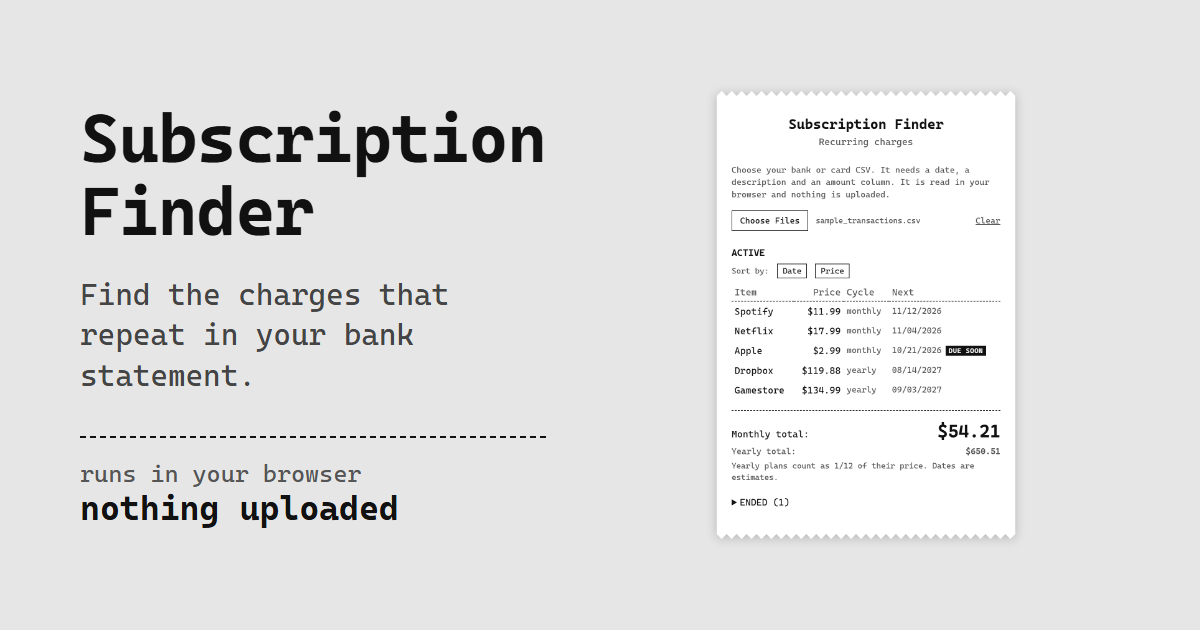
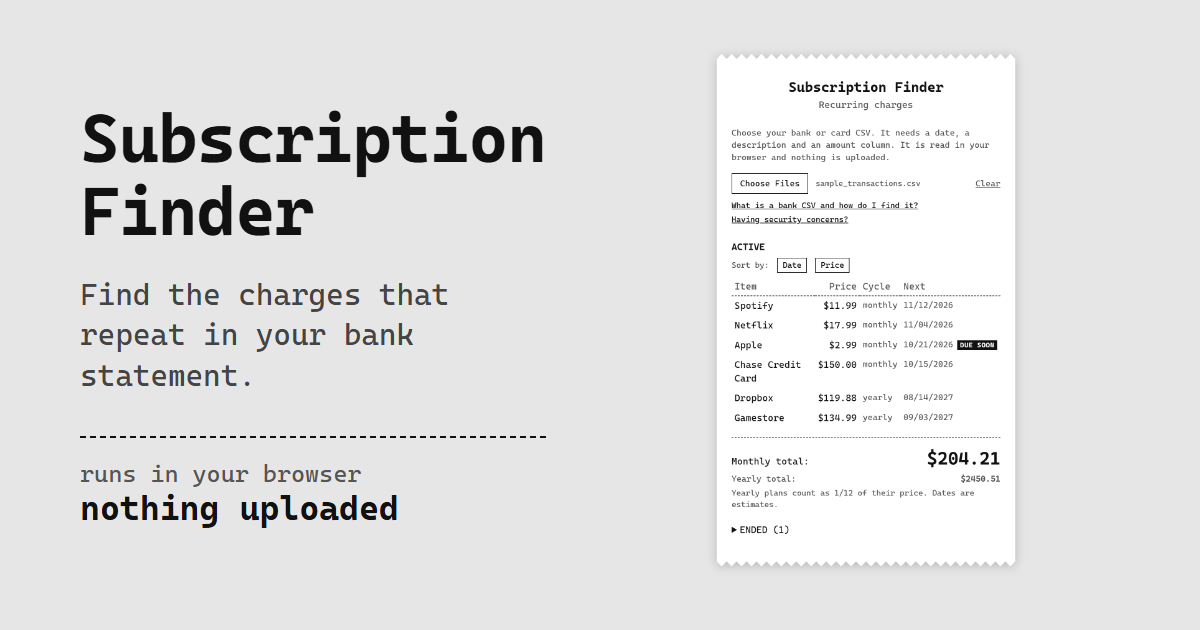
Keep credit card payments in the list; skip only transfers, Zelle and ATM

Changed region(s): [[0.5858, 0.0905, 0.8633, 0.9048], [0.8017, 0.3317, 0.8325, 0.3619]]

diff --git a/tests/finder.test.js b/tests/finder.test.js
@@ -10,10 +10,11 @@ const EXPECTED = [
   "Spotify | 11.99 | monthly | next 2026-11-12",
   "Netflix | 17.99 | monthly | next 2026-11-04",
   "Apple | 2.99 | monthly | next 2026-10-21",
+  "Chase Credit Card | 150.00 | monthly | next 2026-10-15",
   "Planet Fitness | 24.99 | monthly | ended 2026-06-02",
   "Dropbox | 119.88 | yearly | next 2027-08-14",
   "Gamestore | 134.99 | yearly | next 2027-09-03",
-  "monthly 54.21 | yearly 650.51",
+  "monthly 204.21 | yearly 2450.51",
 ];
 
 // a monthly subscription: three charges 30 days apart ending on `last` (MM/DD/YYYY strings)
@@ -55,7 +56,7 @@ test("two files from different banks are combined", () => {
   const gym = csv(charges("CITY GYM MEMBERSHIP", "-30.00", ["10/03/2026", "09/03/2026", "08/03/2026", "07/03/2026"]));
   const lines = report([readDoc("sample_transactions.csv"), gym]);
   assert.ok(lines.includes("City Gym Membership | 30.00 | monthly | next 2026-11-02"));
-  assert.equal(lines.at(-1), "monthly 84.21 | yearly 1010.51");
+  assert.equal(lines.at(-1), "monthly 234.21 | yearly 2810.51");
 });
 
 test("each file decides for itself whether purchases are positive or negative", () => {
@@ -122,13 +123,22 @@ test("a charge that did not arrive on time is marked overdue", () => {
   assert.equal(subscriptions.find((s) => s.displayName === "On Time").overdue, false);
 });
 
-test("credit card payments, transfers and Zelle are left out", () => {
+test("transfers, Zelle and ATM withdrawals are left out", () => {
   const body = [
-    charges("CITI PAYMENT", "-50.00", ["10/01/2026", "09/01/2026", "08/01/2026"]),
     charges("ONLINE TRANSFER TO SAVINGS", "-25.00", ["10/02/2026", "09/02/2026", "08/02/2026"]),
     charges("ZELLE PAYMENT TO SAM", "-20.00", ["10/03/2026", "09/03/2026", "08/03/2026"]),
+    charges("ATM WITHDRAWAL 220 MAIN ST", "-100.00", ["10/04/2026", "09/04/2026", "08/04/2026"]),
   ].join("\n");
   assert.equal(analyze([csv(body)]).subscriptions.length, 0);
+});
+
+test("credit card and loan payments are kept, so the user can hide them", () => {
+  const body = [
+    charges("CITI PAYMENT", "-50.00", ["10/01/2026", "09/01/2026", "08/01/2026"]),
+    charges("PAYMENT TO CHASE CARD ENDING IN 0334", "-75.00", ["10/05/2026", "09/05/2026", "08/05/2026"]),
+  ].join("\n");
+  const names = Array.from(analyze([csv(body)]).subscriptions.map((s) => s.displayName + " " + s.price));
+  assert.deepEqual(names, ["Citi 50", "Chase Card 75"]);
 });
 
 test("deposits are ignored", () => {

diff --git a/docs/finder.js b/docs/finder.js
@@ -1,10 +1,11 @@
 // Detection logic for Subscription Finder. It started as a Python script, so the function names follow it (snake_case became camelCase).
 // Dates are stored as UTC milliseconds so daylight saving never changes a day count.
 
-// Payments to credit cards and loans, transfers and cash withdrawals repeat too, but they are not subscriptions.
-const SKIP = ["discover", "capitalone", "chasecredit", "zelle", "onlinetransfer",
-  "citipayment", "citibank", "wfcreditcard", "wellsfargo", "merrickbank", "fortiva", "avant",
-  "recurringtransf", "transferto", "transferfrom", "atmwithdrawal", "atmcash"];
+// Things that repeat but are money moving around, not a subscription: transfers, Zelle and ATM cash.
+// Credit card and loan payments are NOT skipped. They stay in the list and the user can hide them.
+// The words are matched against the start of a merchant key, which is only 15 letters long.
+const SKIP = ["zelle", "onlinetransfer", "recurringtransf", "transferto", "transferfrom",
+  "atmwithdrawal", "atmcash"];
 const MS_PER_DAY = 24 * 60 * 60 * 1000;
 
 function makeKey(description) {

diff --git a/README.md b/README.md
@@ -4,7 +4,7 @@
 
 Reads a bank or card statement CSV and lists the charges that repeat: what each subscription costs, when the next one is due, and your monthly and yearly totals. It runs entirely in the browser, so your file is never uploaded.
 
-![The page showing five active subscriptions, a due-soon tag, and monthly and yearly totals](docs/screenshot.png)
+![The page showing six recurring charges, including a credit card payment, a due-soon tag, and monthly and yearly totals](docs/screenshot.png)
 
 **Live page:** https://readtheterms.github.io/subscription-finder/ (no CSV handy? Click **Try sample data**.)
 
@@ -31,7 +31,7 @@ If a merchant's charges don't look like a subscription as a whole, they are spli
 
 A subscription is **active** if its last charge is within 40 days (monthly) or 380 days (yearly) of the newest date in the file. Otherwise it is listed under Ended. The next date is the last charge plus 30 days (365 for yearly), so it is an estimate.
 
-Deposits and refunds are ignored. Transfers, Zelle, and some credit card payments are skipped using a short list of name prefixes. Anything not on that list still shows up, and you can hide it.
+Deposits and refunds are ignored. Transfers, Zelle and ATM withdrawals are skipped using a short list of name prefixes, because they move money around and aren't subscriptions. Credit card and loan payments are kept, since they repeat every month too. Hide any you don't want counted.
 
 ## Code
 
@@ -51,7 +51,7 @@ The tests check that the sample and every bank layout give the same subscription
 - Only monthly and yearly charges are found. Weekly ones are missed.
 - If a merchant changes its name on the statement, the old and new names appear as separate entries.
 - The 15-letter key can merge different merchants that start the same way, or split one whose name changes early.
-- The skip list is hand-written. A lender or card it doesn't list shows up as a subscription, and so can bills like rent and insurance. Hide those.
+- The skip list only covers transfers, Zelle and ATM cash. Credit card payments, rent, insurance and other bills show up as recurring charges, so hide the ones that aren't really subscriptions.
 - Overlapping files are only de-duplicated when the same transaction is written the same way in both.
 - Dates are read as month/day/year.
 - `DUE SOON` uses today's date from your computer, while `OVERDUE` compares against the newest date in the file.
